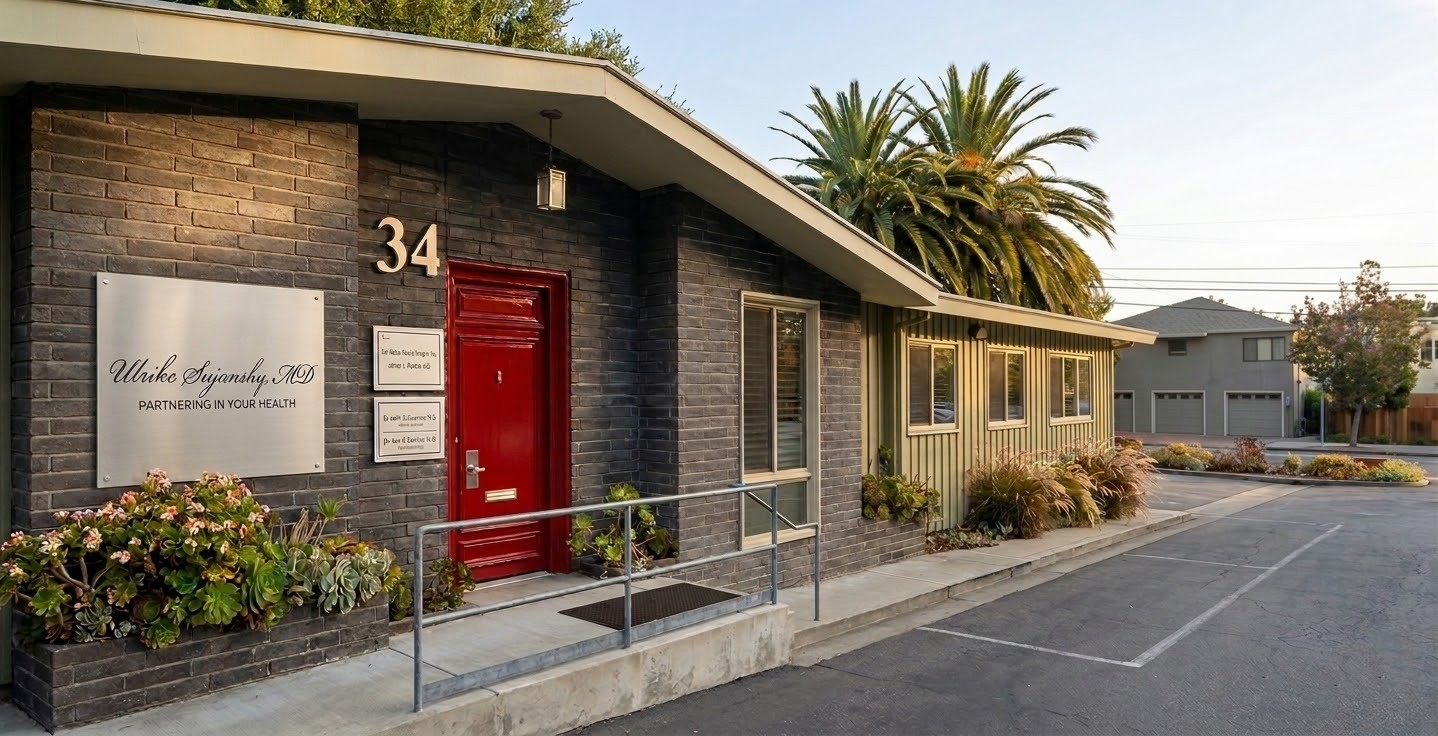
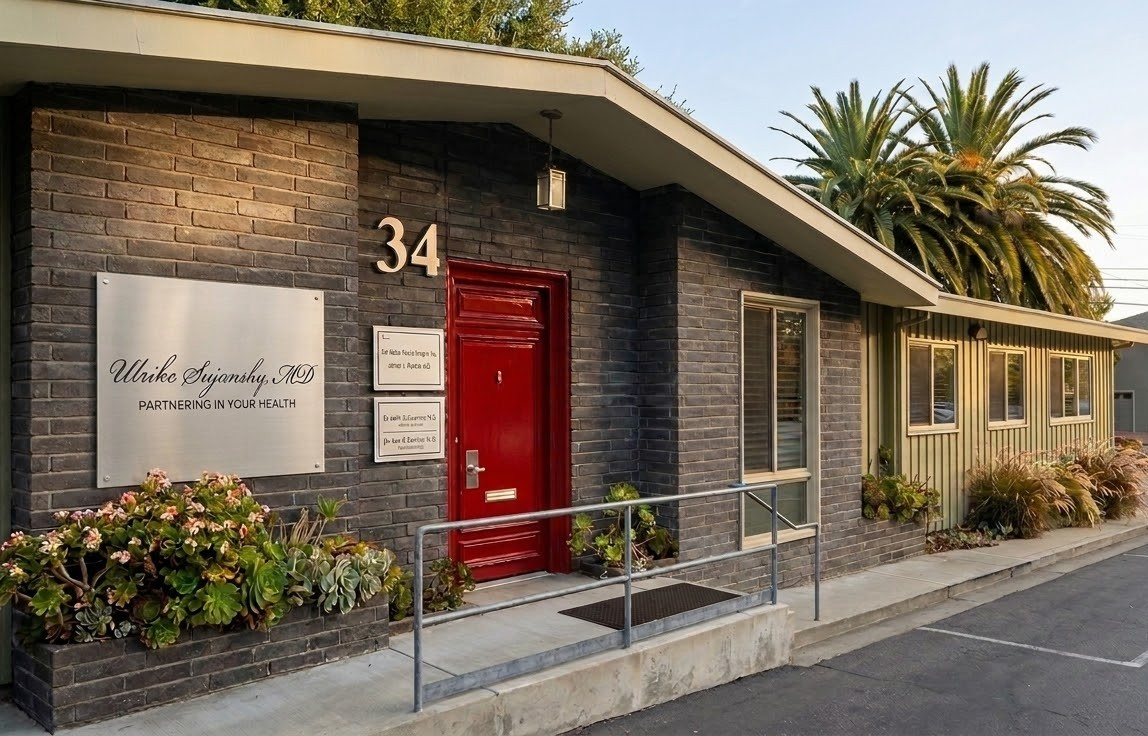
Update hero image and doctor profile copy

diff --git a/src/pages/TeamPage.tsx b/src/pages/TeamPage.tsx
@@ -101,7 +101,13 @@ function TeamPage() {
                 <div className="bg-white p-6 shadow-sm border border-gray-300 border-t-4 border-t-steely-blue">
                   <h4 className="text-lg font-bold text-navy mb-3 uppercase tracking-wide border-b border-gray-200 pb-2">Family Life</h4>
                   <p className="mt-3 text-[18px] text-foreground/90 leading-9">
-                    Dr. Sujansky is married and has two sons. She loves to spend her free time with skiing, hiking, knitting, and reading. She enjoys traveling and sharing a good meal with friends and family.
+                    Dr. Sujansky is married and has two sons and will be glad to talk about them anytime, anywhere. She loves to spend her free time with skiing (and apres-skiing!), hiking, knitting, and reading. She enjoys traveling to exotic places. At home, she looks forward to sharing good meal of pasta carbonara with friends and family.
+                  </p>
+                </div>
+                <div className="bg-white p-6 shadow-sm border border-gray-300 border-t-4 border-t-gold">
+                  <h4 className="text-lg font-bold text-navy mb-3 uppercase tracking-wide border-b border-gray-200 pb-2">Why I Practice</h4>
+                  <p className="mt-3 text-[18px] text-foreground/90 leading-9">
+                    "I've wanted to be a doctor since I was a small child and I still love my job. I feel privileged to be able to spend more time with my patients so that I can care about them, not just care for them. I try to combine this time-honored doctor-patient relationships with modern medical advances."
                   </p>
                 </div>
               </motion.div>

diff --git a/src/pages/HomePage.tsx b/src/pages/HomePage.tsx
@@ -5,7 +5,7 @@ import Header from '@/components/Header';
 import Footer from '@/components/Footer';
 import ContactForm from '@/components/ContactForm';
 import MapEmbed from '@/components/MapEmbed';
-import officeImage from '@/assets/backround.jpg';
+import officeImage from '@/assets/Gemini_Generated_Image_l6jcc5l6jcc5l6jc.png';
 import drPortrait from '@/assets/Rika+in+brown+blouse (1).webp';
 import shawnaPortrait from '@/assets/image-asset (4).webp';
 import kimPortrait from '@/assets/Kim (1).webp';
@@ -27,7 +27,7 @@ function HomePage() {
             <img
               src={officeImage}
               alt="Office at 34 North San Mateo Drive"
-              className="h-full w-full scale-[1.2] object-cover object-[30%_38%]"
+              className="h-full w-full scale-[1.08] object-cover object-left"
             />
             <div className="absolute inset-0 bg-[linear-gradient(110deg,rgba(16,30,52,0.56)_0%,rgba(16,30,52,0.38)_30%,rgba(16,30,52,0.12)_56%,rgba(16,30,52,0.02)_100%)]" />
             <div className="absolute inset-0 bg-[radial-gradient(circle_at_top_right,rgba(214,171,83,0.14),transparent_35%),radial-gradient(circle_at_bottom_left,rgba(255,255,255,0.06),transparent_30%)]" />
